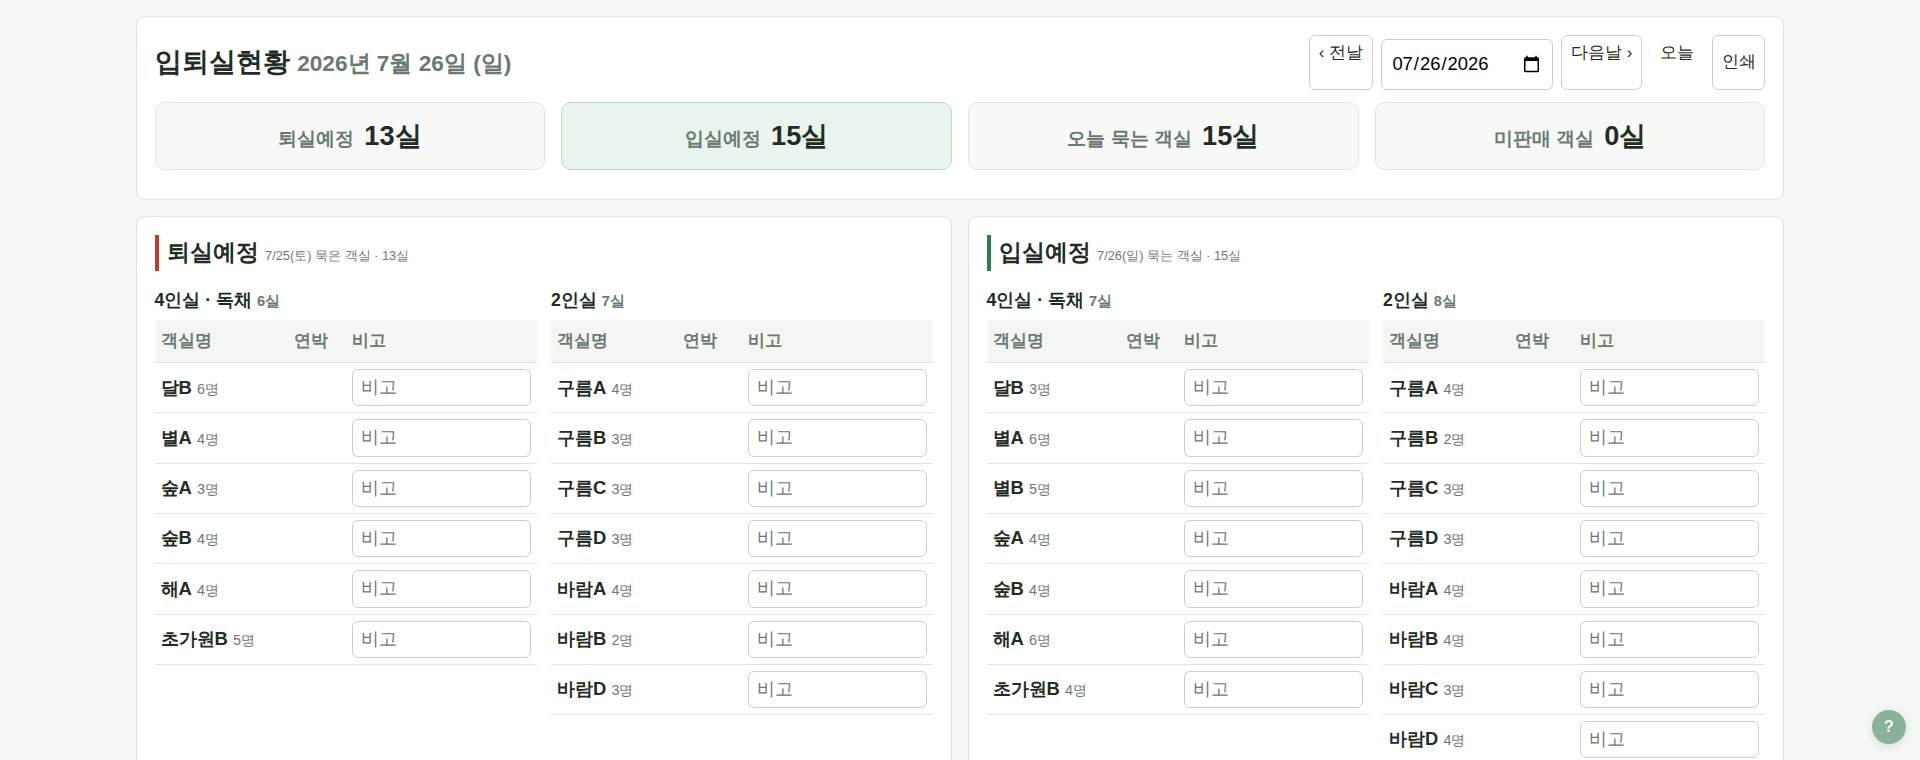
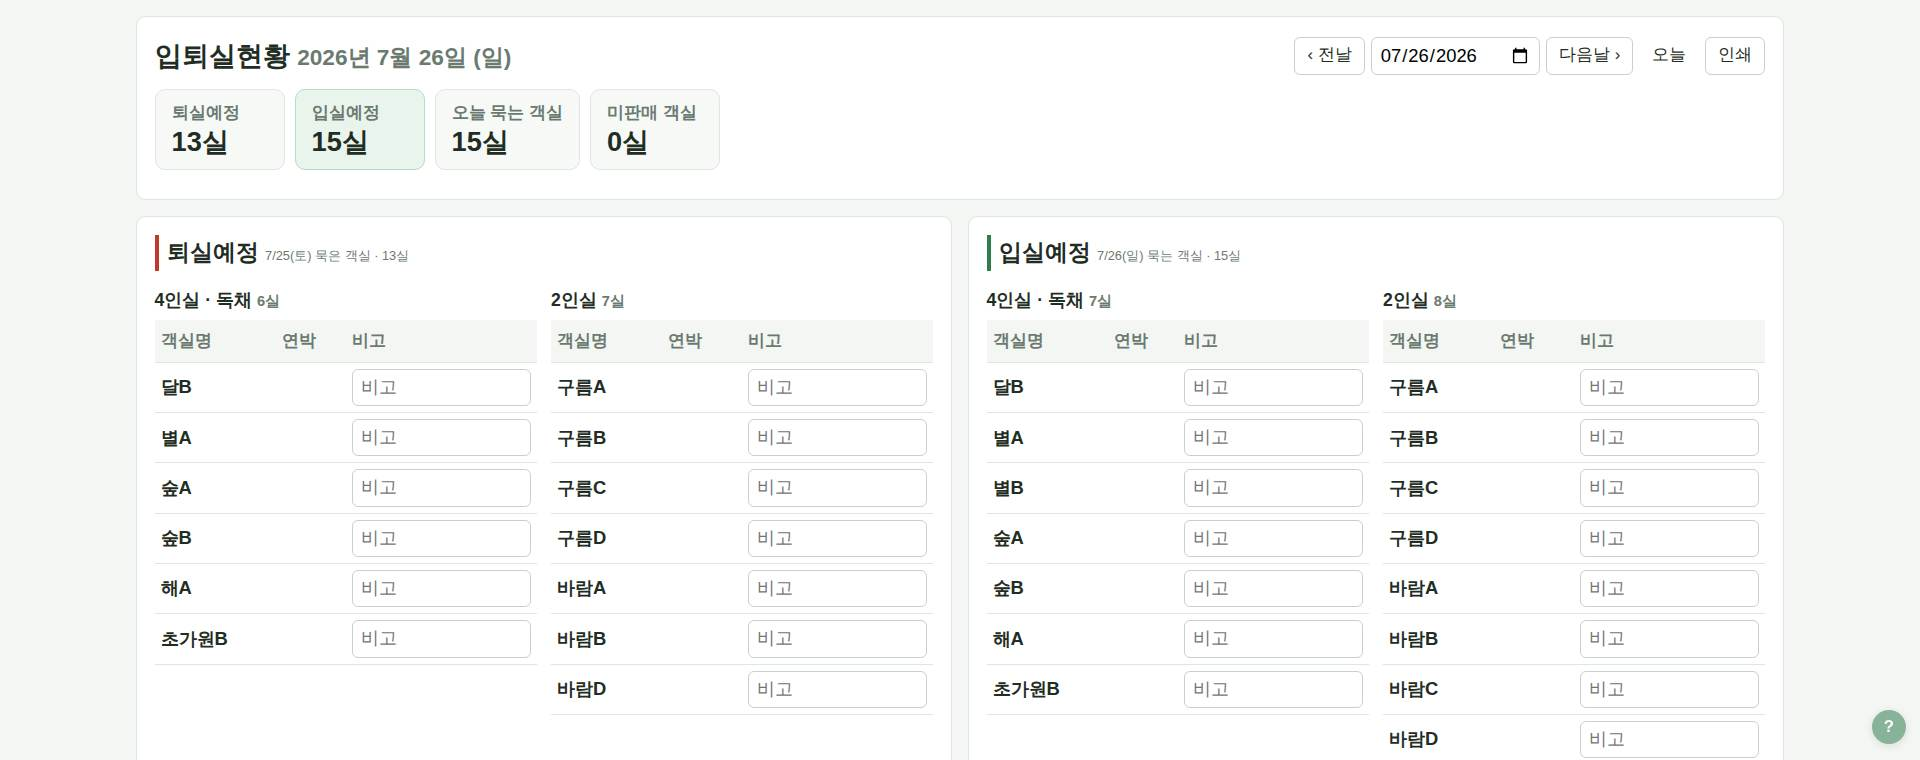
입퇴실현황: 상단 요약칸 왼쪽으로 모아 작게(이름 아래 실 수), 객실명 뒤 인원 제거
Claude-Session: https://claude.ai/code/session_01Lr6yxKyasrSL9QLfMX5TX8

diff --git a/assets/style.css b/assets/style.css
@@ -1219,9 +1219,11 @@ body:has(.rt-page) main.container { max-width: 1680px; }
 .rt-page .badge.rt-badge { font-size: 1rem; padding: 3px 10px; }
 .rt-page textarea { font-size: 1.15rem; line-height: 1.6; }
 .rt-page .btn { font-size: 1.05rem; }
-.rt-kpis .kpi { display: flex; align-items: baseline; justify-content: center; gap: 10px; padding: 12px 14px; }
-.rt-kpis .kpi span { font-size: 1.2rem; font-weight: 600; }
-.rt-kpis .kpi b { font-size: 1.7rem; }
+/* 상단 요약칸: 왼쪽으로 모아 작게, 이름 아래 줄에 실 수 */
+.kpis.rt-kpis { display: flex; flex-wrap: wrap; justify-content: flex-start; gap: 10px; }
+.rt-kpis .kpi { flex: 0 0 auto; min-width: 130px; padding: 10px 16px; text-align: left; }
+.rt-kpis .kpi span { display: block; font-size: 1.05rem; font-weight: 600; }
+.rt-kpis .kpi b { display: block; font-size: 1.7rem; line-height: 1.2; }
 /* 입퇴실현황: 위쪽 날짜 이동 버튼 한 줄 정렬 */
 .rt-page .card-head .actions { display: flex; flex-wrap: nowrap; align-items: center; gap: 6px; }
 .rt-page .card-head .actions .btn { white-space: nowrap; display: inline-flex; align-items: center; height: 38px; padding: 0 12px; line-height: 1; }

diff --git a/room_turnover.php b/room_turnover.php
@@ -115,10 +115,10 @@ layout_header('입퇴실현황', 'turnover');
     </div>
   </div>
   <div class="kpis k4 rt-kpis">
-    <div class="kpi"><span>퇴실예정</span> <b><?= $count('out', false) ?>실</b></div>
-    <div class="kpi total"><span>입실예정</span> <b><?= $count('in', false) ?>실</b></div>
-    <div class="kpi"><span>오늘 묵는 객실</span> <b><?= count($lists['in']) ?>실</b></div>
-    <div class="kpi"><span>미판매 객실</span> <b><?= count($blocked) ?>실</b></div>
+    <div class="kpi"><span>퇴실예정</span><b><?= $count('out', false) ?>실</b></div>
+    <div class="kpi total"><span>입실예정</span><b><?= $count('in', false) ?>실</b></div>
+    <div class="kpi"><span>오늘 묵는 객실</span><b><?= count($lists['in']) ?>실</b></div>
+    <div class="kpi"><span>미판매 객실</span><b><?= count($blocked) ?>실</b></div>
   </div>
   <?php if (!$todayDoc): ?><p class="small warn">이 날 일일객실판매가 아직 없어 입실예정이 비어 있을 수 있습니다. <a href="<?= e(url('write.php?type=rooms&date=' . $date)) ?>">객실판매관리에서 작성</a>(입실예정 엑셀로 채우기)하면 여기에 나옵니다.</p><?php endif ?>
 </section>
@@ -148,7 +148,7 @@ layout_header('입퇴실현황', 'turnover');
             <tbody>
             <?php foreach ($rowsH as $pid => $r): ?>
               <tr class="<?= $r['stay'] ? 'rt-stay' : '' ?>">
-                <td class="nowrap"><b><?= e($r['p']['name']) ?></b> <small class="muted"><?= (int) $r['guests'] ?>명</small></td>
+                <td class="nowrap"><b><?= e($r['p']['name']) ?></b></td>
                 <td class="nowrap"><?= $r['nights'] > 1 ? '<span class="badge rt-badge">연박</span>' . ($r['stay'] ? '<br><small class="muted">' . ($side === 'out' ? '퇴실 없음' : '입실 없음') . '</small>' : '') : '' ?></td>
                 <td><input name="note[<?= $side ?>][<?= (int) $pid ?>]" value="<?= e($notes[$side][$pid] ?? '') ?>" maxlength="300" placeholder="비고"></td>
               </tr>

diff --git a/app/help.php b/app/help.php
@@ -202,7 +202,7 @@ HTML],
 <p>그 날의 <b>퇴실예정</b>(왼쪽)과 <b>입실예정</b>(오른쪽) 객실을 한눈에 봅니다. 날짜를 바꾸거나 전날·다음날로 지난 날짜의 입퇴실 현황도 봅니다.</p>
 <ul>
   <li>퇴실예정·입실예정마다 <b>왼쪽에 4인실·독채, 오른쪽에 2인실</b>로 나눠 짧게 보여 줍니다 (객실 분류 이름에 '2인'이 있으면 오른쪽). 넓은 화면에서는 퇴실예정과 입실예정이 좌우로, 좁은 화면에서는 위아래로 나옵니다.</li>
-  <li>표: <b>객실명(인원) · 연박 · 비고</b>. 퇴실예정 = 전날 묵은 객실, 입실예정 = 그 날 묵는 객실 (객실판매관리의 일일객실판매 기준, 임시저장 포함).</li>
+  <li>표: <b>객실명 · 연박 · 비고</b>. 퇴실예정 = 전날 묵은 객실, 입실예정 = 그 날 묵는 객실 (객실판매관리의 일일객실판매 기준, 임시저장 포함).</li>
   <li><b>연박</b>은 일일객실판매에서 객실마다 고른 <b>연박 2박·3박</b>이 기준입니다 (예약 엑셀로 채우면 숙박기간 2박3일 → 2박, 3박4일 → 3박 자동, 1박2일은 연박 아님). 그 날부터 그 박수만큼 한 손님으로 보고 '연박'으로 표시하며, 연박 중이라 그 날 실제 입실·퇴실이 없는 객실은 노란 줄로 '오늘 입실(퇴실) 없음'이 나옵니다. 연박을 고르지 않은 판매는 연달아 있어도 다른 손님으로 봅니다.</li>
   <li><b>비고</b>는 객실마다 직접 적고, 아래 <b>중점정비사항</b>에 그 날 정비할 내용을 적은 뒤 '저장'합니다. <b>인쇄</b>하면 <b>A4 가로 한 장</b>에 퇴실·입실 표(각각 4인실·독채 / 2인실)와 중점정비사항이 모두 들어갑니다 — 내용이 많으면 자동으로 줄여서 한 장에 맞춥니다.</li>
   <li>그 날 일일객실판매가 아직 없으면 입실예정이 비어 있으니, 객실판매관리에서 먼저 작성(입실예정 엑셀로 채우기)하세요.</li>

diff --git a/app/changelog.php b/app/changelog.php
@@ -10,6 +10,7 @@ const CHANGELOG = [
     ['date' => '2026-10-05', 'title' => '입퇴실현황 인쇄: A4 가로 한 장', 'menu' => '객실관리', 'items' => [
         '입퇴실현황을 인쇄하면 A4 가로 방향으로, 퇴실·입실 표와 중점정비사항이 모두 한 장에 들어갑니다. 내용이 많으면 자동으로 줄여서 맞춥니다.',
         '위쪽 전날·다음날 버튼이 줄바꿈되지 않게 한 줄로 정렬했습니다.',
+        '위쪽 요약칸 4개를 왼쪽으로 모아 작게 하고(이름 아래 실 수), 객실명 뒤 인원 표시는 뺐습니다.',
     ]],
     ['date' => '2026-10-05', 'title' => '입퇴실현황: 4인실·독채 / 2인실 좌우로 나눠 짧게', 'menu' => '객실관리', 'items' => [
         '퇴실예정·입실예정 목록을 왼쪽 4인실·독채, 오른쪽 2인실로 나눠 한눈에 보이게 했습니다. 객실구분 칸은 빼고 분류 이름을 표 위에 표시합니다.',
